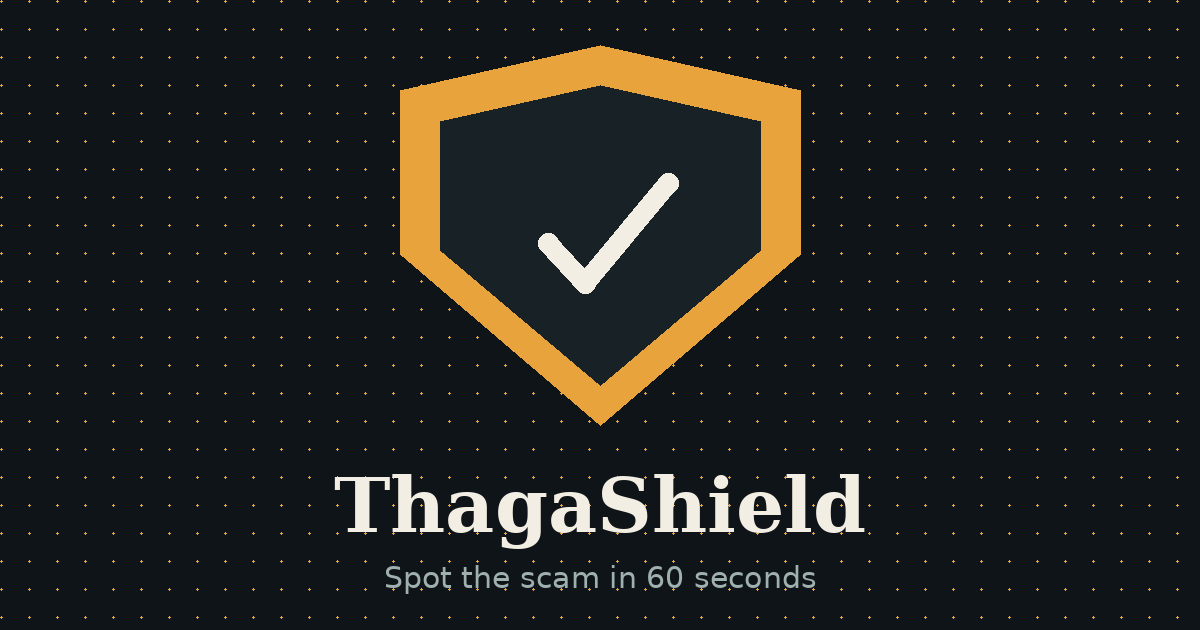
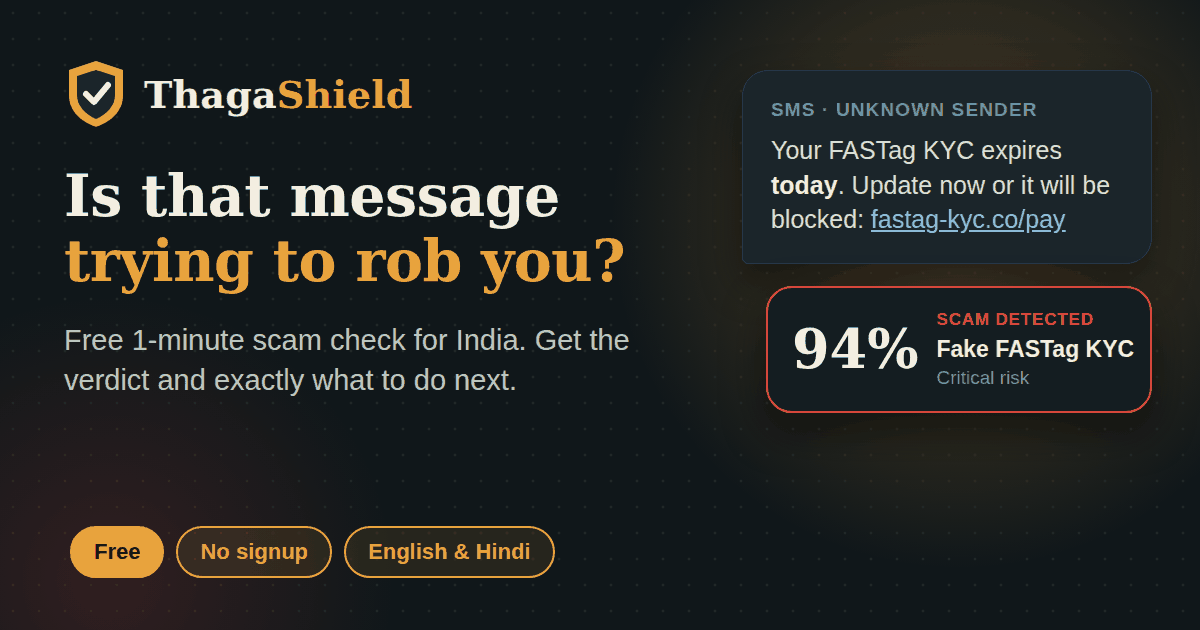
Social Friendly

Changed region(s): [[0.0308, 0.0603, 0.9558, 0.6937], [0.0, 0.754, 0.74, 1.0], [0.6783, 0.0, 0.925, 0.1206]]

diff --git a/index.html b/index.html
@@ -6,19 +6,28 @@
 <title>ThagaShield — Spot the scam in 60 seconds</title>
 <meta name="description" content="A free 1-minute diagnostic tool that tells you if that call, WhatsApp message or SMS is an Indian cyber scam — and exactly what to do next.">
 
-<!-- Open Graph (replace YOUR-DOMAIN with your live Cloudflare URL — WhatsApp/Twitter need an absolute URL) -->
+<!-- Link preview (WhatsApp, Facebook, LinkedIn, X/Twitter, Telegram, iMessage).
+     These need ABSOLUTE URLs. If the site address ever changes (e.g. a custom domain),
+     replace every occurrence of https://thaga-shield.suvadipchakraborty.workers.dev in this block. -->
+<link rel="canonical" href="https://thaga-shield.suvadipchakraborty.workers.dev/">
+<meta property="og:site_name" content="ThagaShield">
 <meta property="og:type" content="website">
-<meta property="og:title" content="ThagaShield — Spot the scam in 60 seconds">
-<meta property="og:description" content="Free, 1-minute diagnostic for Indian cyber scams: Digital Arrest calls, task-job frauds, fake QR codes, loan-app harassment & more. No signup, no data stored.">
-<meta property="og:image" content="https://YOUR-DOMAIN/assets/og-image.png">
-<meta property="og:url" content="https://YOUR-DOMAIN/">
 <meta property="og:locale" content="en_IN">
+<meta property="og:url" content="https://thaga-shield.suvadipchakraborty.workers.dev/">
+<meta property="og:title" content="ThagaShield: Is that message a scam?">
+<meta property="og:description" content="Free 1-minute check for Indian cyber scams. Answer a few questions, get the verdict and what to do next.">
+<meta property="og:image" content="https://thaga-shield.suvadipchakraborty.workers.dev/assets/og-image.png">
+<meta property="og:image:secure_url" content="https://thaga-shield.suvadipchakraborty.workers.dev/assets/og-image.png">
+<meta property="og:image:type" content="image/png">
+<meta property="og:image:width" content="1200">
+<meta property="og:image:height" content="630">
+<meta property="og:image:alt" content="ThagaShield: a suspicious FASTag KYC SMS flagged as a 94% scam match, with the headline 'Is that message trying to rob you?'">
 
-<!-- Twitter -->
 <meta name="twitter:card" content="summary_large_image">
-<meta name="twitter:title" content="ThagaShield — Spot the scam in 60 seconds">
-<meta name="twitter:description" content="Free 1-minute diagnostic for Indian cyber scams. No signup, no data leaves your phone.">
-<meta name="twitter:image" content="https://YOUR-DOMAIN/assets/og-image.png">
+<meta name="twitter:title" content="ThagaShield: Is that message a scam?">
+<meta name="twitter:description" content="Free 1-minute check for Indian cyber scams. Answer a few questions, get the verdict and what to do next.">
+<meta name="twitter:image" content="https://thaga-shield.suvadipchakraborty.workers.dev/assets/og-image.png">
+<meta name="twitter:image:alt" content="ThagaShield: a suspicious FASTag KYC SMS flagged as a 94% scam match.">
 
 <link rel="icon" href="assets/favicon.svg" type="image/svg+xml">
 <link rel="manifest" href="manifest.json">

diff --git a/README.md b/README.md
@@ -58,18 +58,25 @@ To refresh the built-in copy occasionally, replace the two CSV strings in `js/sn
 │   ├── snapshot.js     # built-in copy of both sheets (offline fallback)
 │   ├── data.js         # CSV parser, tree builder, data-health audit, live/cache loading
 │   └── app.js          # routing + confirmation engine, results, database tab, English/हिंदी
-└── assets/             # favicon.svg, og-image.png
+└── assets/             # favicon.svg, og-image.png (link-preview card, 1200×630)
 ```
 
 ## Deploy: GitHub → Cloudflare Pages
 
 1. Drag the **contents** of this folder into your GitHub repo (`index.html`, `css/`, `js/`, `assets/`, `manifest.json`, `.nojekyll` at the repo root) and commit.
 2. Cloudflare dashboard → **Workers & Pages → Create → Pages → Connect to Git**, pick the repo. Framework preset **None**, build command **empty**, output directory **`/`**. Every commit to `main` redeploys automatically.
-3. Once you know your live URL, replace `YOUR-DOMAIN` in the `og:image`, `og:url` and `twitter:image` tags in `index.html` (WhatsApp and Twitter need absolute URLs).
+
+## Link previews (WhatsApp, Instagram DMs, Facebook, LinkedIn, X, Telegram)
+
+Pasting the link shows a large 1200×630 card (`assets/og-image.png`) with the title and description from the `og:` / `twitter:` tags in `index.html`.
+
+- These platforms need **absolute** URLs and don't run JavaScript, so the address is written directly into the tags in `index.html` (`canonical`, `og:url`, `og:image`, `og:image:secure_url`, `twitter:image`) as `https://thaga-shield.suvadipchakraborty.workers.dev`. **If you move to a custom domain, replace it in those five tags.**
+- **Refreshing a cached preview:** WhatsApp and others cache per link. After changing the image or text, share the link with a new query string (e.g. `https://your-site/?v=2`), or use the Facebook Sharing Debugger / LinkedIn Post Inspector to re-scrape.
+- To change the card, replace `assets/og-image.png` with a new 1200×630 image, ideally under 300 KB (WhatsApp skips larger images).
 
 ## Features carried over from v1
 
-Golden Hour panel (now with a one-tap **Call 1930**), copy-able block-and-report message, Web Share of the diagnosis, on-device "scams dodged" counter, English / हिंदी toggle, installable PWA, searchable scam database (now with type filters and risk badges), social-preview tags.
+Golden Hour panel (now with a one-tap **Call 1930**), copy-able block-and-report message, Web Share of the diagnosis, on-device "scams dodged" counter, English / हिंदी toggle, installable PWA, searchable scam database (now with type filters and risk badges), a designed link-preview card for social sharing.
 
 ---
 
